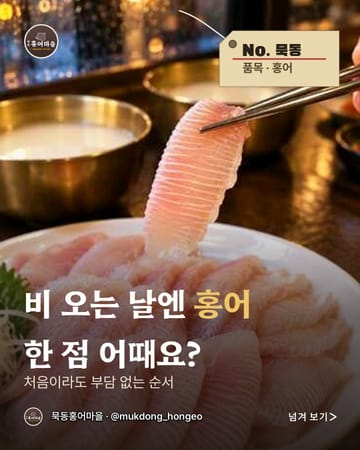
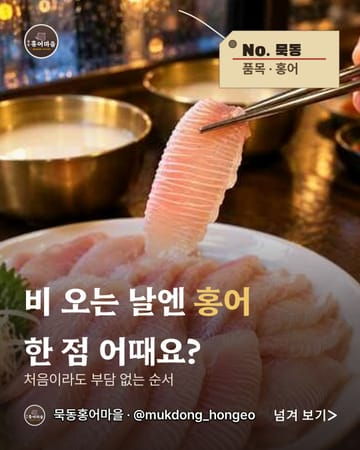
카드의 작은 글씨를 모두 40px 이상으로: 바닥글·넘겨 보기·장 번호·저장 칩·꼬리표
- 바닥글 가게 이름·계정과 "넘겨 보기" 30→40px(로고 56→64), 장 번호 32→40px, 가게 명함 계정·저장 칩 32→40px
- 사진 중심 모양의 작은 글(No. 꼬리표, "순서대로 넘겨 보세요", 간판 머리말, 먹색 액자 장 번호, 경매표 품목, 박물관 라벨 정보·짧은 글) 28~36→40px
- 조사 보고서 "사진 중심 한식 카드뉴스 재분석"의 원칙(어떤 글자도 40px 미만 금지, 50대 이상 독자)
- 모양 견본(public/looks) 다시 그림

diff --git a/src/features/images/styles/photoLooksRetro.ts b/src/features/images/styles/photoLooksRetro.ts
@@ -50,7 +50,7 @@ async function signboard(photo:Buffer,content:StyleContent,index:number):Promise
   layers.push({input:star.data,left:centred(star,cx),top:Math.round(cy-star.info.height/2)});
   let y=Math.round((bandH-head.layer.info.height-(content.cover?54:0))/2);
   if(content.cover){
-    const eyebrow=await textLayer("— 묵동홍어마을 —",{size:34,color:SIGN.cream,width:700,height:80,font:SANS_BOLD,align:"centre",letterSpacing:4});
+    const eyebrow=await textLayer("— 묵동홍어마을 —",{size:40,color:SIGN.cream,width:700,height:80,font:SANS_BOLD,align:"centre",letterSpacing:4});
     layers.push({input:eyebrow.data,left:centred(eyebrow),top:y});y+=54;
   }
   layers.push({input:head.layer.data,left:centred(head.layer),top:y});
@@ -117,7 +117,7 @@ async function inkFrame(photo:Buffer,content:StyleContent,index:number):Promise<
   markup+=`<path d="M${540-110} ${sepY}H${540-22}M${540+22} ${sepY}H${540+110}" stroke="${INK.gold}" stroke-width="2"/><path d="M540 ${sepY-9}L549 ${sepY}L540 ${sepY+9}L531 ${sepY}Z" fill="${INK.gold}"/>`;
   const layers:OverlayOptions[]=[svgLayer(markup),{input:arched,left:ax,top}];
   if(content.cover)layers.push({input:await logoMark(92,INK.cream),left:centred({info:{width:92}}),top:top+AH-92-24});
-  else{const folio=await textLayer(`— ${String(index).padStart(2,"0")} —`,{size:30,color:INK.gold,width:300,height:60,font:SANS_BOLD,align:"centre",features:"tnum"});layers.push({input:folio.data,left:centred(folio),top:78});}
+  else{const folio=await textLayer(`— ${String(index).padStart(2,"0")} —`,{size:40,color:INK.gold,width:300,height:70,font:SANS_BOLD,align:"centre",features:"tnum"});layers.push({input:folio.data,left:centred(folio),top:78});}
   layers.push({input:head.layer.data,left:centred(head.layer),top:textTop});
   if(sub)layers.push({input:sub.data,left:centred(sub),top:sepY+26});
   if(store){const placed=store.place(540,bottomTop);layers.push(svgLayer(placed.svg),...placed.layers);}
@@ -151,7 +151,7 @@ async function auctionTag(photo:Buffer,content:StyleContent,index:number,look:Tr
   // 꼬리표: 오른쪽 위, 번호와 품목만(산지·중량·숙성일 같은 확인 안 된 사실은 적지 않는다).
   const TW=360,TX=W-MARGIN-TW+10,TY=MARGIN+20;
   const no=await textLayer(content.cover?"No. 묵동":`No. ${String(index).padStart(3,"0")}`,{size:48,color:TAG.ink,width:TW-80,height:100,font:STYLE_FONTS.heavy,features:"tnum"});
-  const item=await textLayer(`품목 · ${(content.keywords?.[0]??"홍어").slice(0,6)}`,{size:36,color:TAG.dim,width:TW-80,height:80,font:SANS_BOLD});
+  const item=await textLayer(`품목 · ${(content.keywords?.[0]??"홍어").slice(0,6)}`,{size:40,color:TAG.dim,width:TW-80,height:80,font:SANS_BOLD});
   const TH=40+no.info.height+18+item.info.height+40;
   const cut=40;
   layers.push(svgLayer(`<path d="M${TX+cut} ${TY+cut}C${TX-30} ${TY-10} ${TX-60} ${TY-40} ${TX-120} ${TY-60}" fill="none" stroke="#F3E9DA" stroke-width="4" stroke-linecap="round"/>`
@@ -182,9 +182,9 @@ async function museum(photo:Buffer,content:StyleContent,index:number):Promise<Bu
   const foot=store?null:await footerRow({color:MUSEUM.dim,cueColor:MUSEUM.ink,cue:!content.last});
   const LW=620,LX=W-MARGIN-LW;
   const head=await fitLines(content.headline,{sizes:content.cover?[68,64,60,56]:[64,60,56,52],width:LW-72,font:TITLE_SERIF,color:MUSEUM.ink,maxLines:2,prefer:"size",spacing:size=>Math.round(size*.08),emphasis:emphasisOf(content,"#8A3A1F")});
-  const meta=await textLayer(`${content.cover?"특별전":`전시 ${String(index).padStart(2,"0")}`} · ${(content.keywords??["홍어"]).slice(0,2).join(" · ")}`,{size:28,color:MUSEUM.dim,width:LW-72,height:80,font:SANS_BOLD,letterSpacing:1});
+  const meta=await textLayer(`${content.cover?"특별전":`전시 ${String(index).padStart(2,"0")}`} · ${(content.keywords??["홍어"]).slice(0,2).join(" · ")}`,{size:40,color:MUSEUM.dim,width:LW-72,height:80,font:SANS_BOLD,letterSpacing:1});
   const line=lineOf(content);
-  const sub=line?await textLayer(line,{size:36,color:MUSEUM.dim,width:LW-72,height:4000,font:SANS,spacing:8}):null;
+  const sub=line?await textLayer(line,{size:40,color:MUSEUM.dim,width:LW-72,height:4000,font:SANS,spacing:8}):null;
   const LH=36+meta.info.height+14+head.layer.info.height+(sub?22+sub.info.height:0)+36;
   const bottomH=store?store.height:foot!.height;
   const bottomTop=H-(store?52:MARGIN)-bottomH;

diff --git a/src/features/images/styles/trackKit.ts b/src/features/images/styles/trackKit.ts
@@ -90,13 +90,13 @@ export async function fitLines(rawValue:string,options:{sizes:number[];width:num
 // 마지막 장에는 넘겨 보기를 두지 않는다(cue:false). 돌려주는 height로 부르는 쪽이 위 내용의 바닥을 정한다.
 export async function footerRow(options:{color:string;cueColor?:string;ring?:string;cue:boolean;shadow?:boolean;left?:number;right?:number}):Promise<{height:number;place:(top:number)=>{layers:OverlayOptions[];svg:string}}> {
   const left=options.left??MARGIN,right=options.right??MARGIN;
-  const LOGO=56;
+  const LOGO=64;
   const logo=await logoMark(LOGO,options.ring);
   const handle=brandHandle();
-  const cue=options.cue?await nextCue(options.cueColor??options.color,30):null;
+  const cue=options.cue?await nextCue(options.cueColor??options.color,40):null;
   const nameWidth=1080-left-right-LOGO-16-(cue?cue.width+40:0);
   // 가게 이름 · 계정이 한 줄에 안 들어가면(긴 계정) 계정만 쓴다(옆 로고에 가게 이름이 있다). 그래도 길면 두 줄로 접는다(글자를 줄이지 않는다).
-  const line=(value:string)=>textLayer(value,{size:30,color:options.color,width:nameWidth,height:4000,font:SANS_SEMI,shadow:options.shadow});
+  const line=(value:string)=>textLayer(value,{size:40,color:options.color,width:nameWidth,height:4000,font:SANS_SEMI,shadow:options.shadow});
   let name=await line(handle?`${STORE_NAME} · ${handle}`:STORE_NAME);
   if(handle&&name.info.height>(options.shadow?80:56))name=await line(handle);
   const height=Math.max(LOGO,name.info.height,cue?.height??0);
@@ -115,7 +115,7 @@ export async function footerRow(options:{color:string;cueColor?:string;ring?:str
 
 // 장 번호: 두 자리 숫자(02) + 짧은 선. tnum으로 숫자 폭을 맞춘다. 작은 표시라 30px.
 export async function folioMark(index:number,color:string,options:{shadow?:boolean;rule?:boolean}={}):Promise<{layer:Layer;svg:(x:number,y:number)=>string;width:number}> {
-  const layer=await textLayer(String(index).padStart(2,"0"),{size:32,color,width:120,height:60,font:SANS_BOLD,features:"tnum",letterSpacing:1.5,shadow:options.shadow});
+  const layer=await textLayer(String(index).padStart(2,"0"),{size:40,color,width:140,height:70,font:SANS_BOLD,features:"tnum",letterSpacing:1.5,shadow:options.shadow});
   const rule=options.rule??true;
   return {layer,width:layer.info.width+(rule?76:0),svg:(x,y)=>rule?`<path d="M${x+layer.info.width+18} ${Math.round(y+layer.info.height/2)}H${x+layer.info.width+76}" stroke="${color}" stroke-width="3" stroke-linecap="round"/>`:""};
 }
@@ -131,8 +131,8 @@ export async function storeCardBlock(options:{logoSize:number;ring?:string;wordm
   const logo=await logoMark(options.logoSize,options.ring);
   const word=options.wordmark?await textLayer(STORE_NAME,{size:48,color:s.ink,width,height:120,font:TITLE_SERIF,align:"centre",letterSpacing:48*.06}):null;
   const account=brandHandle();
-  const handle=account?await textLayer(account,{size:32,color:s.dim,width,height:70,font:SANS_SEMI,align:"centre"}):null;
-  const chip=await textLayer(SAVE_CHIP,{size:32,color:s.chipInk,width,height:70,font:SANS_SEMI});
+  const handle=account?await textLayer(account,{size:40,color:s.dim,width,height:70,font:SANS_SEMI,align:"centre"}):null;
+  const chip=await textLayer(SAVE_CHIP,{size:40,color:s.chipInk,width,height:70,font:SANS_SEMI});
   const padX=34,padY=16,chipH=chip.info.height+padY*2,chipW=chip.info.width+padX*2;
   const GAP=22;
   const pad=halo?.pad??0;

diff --git a/src/features/images/styles/photoLooks.ts b/src/features/images/styles/photoLooks.ts
@@ -149,7 +149,7 @@ async function labelCard(photo:Buffer,content:StyleContent,index:number,look:Tra
   if(content.cover)layers.push({input:await logoMark(104,paper.ring),left:MARGIN,top:MARGIN});
   else{
     // 본문: 왼쪽 위 꼬리표(No.02)로 순서를 알린다.
-    const tag=await textLayer(`No.${String(index).padStart(2,"0")}`,{size:34,color:"#2B1F1A",width:300,height:80,font:SANS_BOLD,features:"tnum"});
+    const tag=await textLayer(`No.${String(index).padStart(2,"0")}`,{size:40,color:"#2B1F1A",width:300,height:80,font:SANS_BOLD,features:"tnum"});
     const tw=tag.info.width+44;
     layers.push(svgLayer(`<path d="M${MARGIN} ${MARGIN}H${MARGIN+tw}L${MARGIN+tw+22} ${MARGIN+30}L${MARGIN+tw} ${MARGIN+60}H${MARGIN}Z" fill="#F3E9DA"/><circle cx="${MARGIN+tw-2}" cy="${MARGIN+30}" r="6" fill="#2B1F1A"/>`),{input:tag.data,left:MARGIN+20,top:MARGIN+30-Math.round(tag.info.height/2)});
   }
@@ -201,7 +201,7 @@ async function stepCard(photo:Buffer,content:StyleContent,index:number,total:num
   const photoH=Math.max(380,(sub?subTop-36:bottomTop-44)-y);
   layers.push(await shadowLayer({x:MARGIN,y:y+12,width:CONTENT_W,height:photoH,rx:28,blur:24,opacity:.18}),{input:await croppedPhoto(photo,CONTENT_W,photoH,28,{zoom:1.03}),left:MARGIN,top:y});
   if(cover){
-    const chip=await textLayer("순서대로 넘겨 보세요 ›",{size:34,color:paper.chipInk,width:700,height:80,font:SANS_BOLD});
+    const chip=await textLayer("순서대로 넘겨 보세요 ›",{size:40,color:paper.chipInk,width:700,height:80,font:SANS_BOLD});
     const ch=chip.info.height+28,cw=chip.info.width+56;
     layers.push(svgLayer(`<rect x="${MARGIN+24}" y="${y+photoH-ch-24}" width="${cw}" height="${ch}" rx="${ch/2}" fill="${paper.chip}"/>`));
     layers.push({input:chip.data,left:MARGIN+52,top:y+photoH-ch-24+14});

diff --git a/tests/unit/trackDesigns.test.ts b/tests/unit/trackDesigns.test.ts
@@ -74,7 +74,7 @@ describe("track design families", () => {
       // 사진을 넘겨도(예전 초안의 사진 장) 본문 장에는 쓰지 않는다.
       const {image,report}=await composeSlideCard([dark],{...copy[index-1],layout:"frame"},index,5,"card",{palette:"warm",style:"text-focus"},{contrast:true});
       expect(report.metrics.photoArea).toBe(0);
-      // 제목(84px 이상)과 짧은 글(58px 이상)만 센다. 큰 장 번호(300px)와 바닥글(30px)은 글 줄이 아니다.
+      // 제목(84px 이상)과 짧은 글(58px 이상)만 센다. 큰 장 번호(300px)와 바닥글(40px)은 글 줄이 아니다.
       const copyBoxes=report.boxes.filter(box=>box.size>=44&&box.size<=120);
       const title=copyBoxes.find(box=>box.size>=84)!;
       expect(title).toBeTruthy();
@@ -82,7 +82,7 @@ describe("track design families", () => {
       for(const box of copyBoxes)expect(box.size).toBeGreaterThanOrEqual(58);
       // 큰 장 번호 + 글 덩어리가 바닥글 위 남는 높이의 가운데에 있다(예전에는 글 아래로 330px 넘는 빈 띠가 남았다).
       if(index<5){
-      const numeral=report.boxes.find(box=>box.size>=200)!,footer=report.boxes.filter(box=>box.size<=30).reduce((min,box)=>Math.min(min,box.top),1350);
+      const numeral=report.boxes.find(box=>box.size>=200)!,footer=report.boxes.filter(box=>box.size<=40).reduce((min,box)=>Math.min(min,box.top),1350);
       const textBottom=Math.max(...copyBoxes.map(box=>box.top+box.height));
       expect(Math.abs((numeral.top-96)-(footer-56-textBottom)),`${index}장 위아래 여백`).toBeLessThan(140);
       expect(footer-textBottom,`${index}장 글 아래 빈자리`).toBeLessThan(330);
